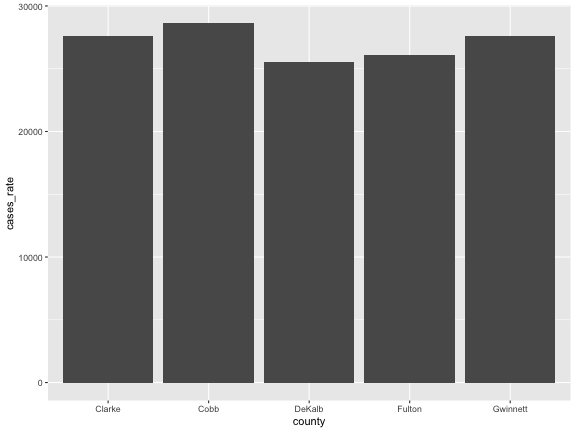
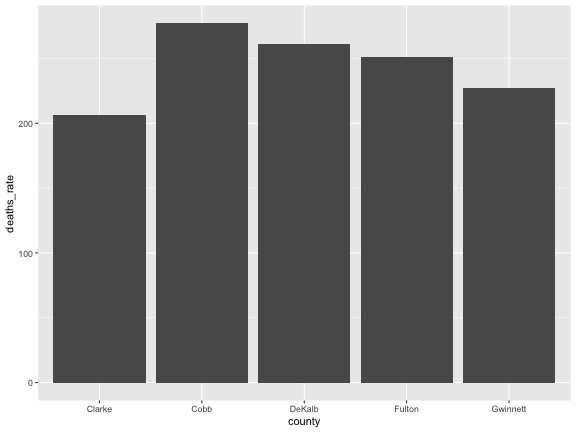
updates

diff --git a/content/teaching/slides/rlab6-combining-data_old.html b/content/teaching/slides/rlab6-combining-data_old.html
@@ -4,7 +4,7 @@
     <title>PADP 7120 Data Applications in PA</title>
     <meta charset="utf-8" />
     <meta name="author" content="Alex Combs" />
-    <script src="rlab6-combining-data_files/header-attrs-2.23/header-attrs.js"></script>
+    <script src="rlab6-combining-data_old_files/header-attrs-2.23/header-attrs.js"></script>
     <link rel="stylesheet" href="mypres.css" type="text/css" />
   </head>
   <body>
@@ -37,29 +37,35 @@ class: center, middle, inverse, title-slide
   - Left join
 
 ---
-# Set up
 
-&gt; **Create a new project named "rlab6" and start new R Markdown document. Change YAML and global options. Delete template.**
+# Setup
+
+- For this lab, we will add to the work we did for RLab5 on data visualizations.
+
+&gt; Instead of starting a new project, open your RLab5 project by clicking on the file with extension .Rproj or just open your Rmd file.
+
+&gt; **Consider changing YAML to:**
 
 
 ```r
 ---
-title: "RLab 6: Combining Data"
+*title: "RLab 5 &amp; 6: Visualizations &amp; Combining Data"
 author: "Your Name"
 output:
   html_document:
-    df_print: kable
+    df_print: paged
 ---
 ```
 
 ---
 # Setup
 
-&gt; **Load the following packages**
+&gt; **Reload the packages that should already be in your Rmd:**
 
 
 ```r
 library(tidyverse)
+library(data.table)
 ```
 
 
@@ -67,25 +73,26 @@ library(tidyverse)
 ---
 # Download &amp; Import Data
 
-&gt; **Download the `st_fin_2014.csv`, `st_fin_2015.csv`, `st_fin_2016.csv`, `covid_ga_5.csv` and `ga_county_pop.csv` files from eLC and add them to your project folder.**
+&gt; **Download the `st_fin_2014.csv`, `st_fin_2015.csv`, `st_fin_2016.csv`, and `ga_county_pop.csv` files from eLC and add them to your project folder.**
 
-&gt; **In your setup code chunk, import the data files using the following code.**
+&gt; **In your setup code chunk, import the four data files.**
 
 
 ```r
-st_fin_2014 &lt;- read_csv("st_fin_2014.csv")
-st_fin_2015 &lt;- read_csv("st_fin_2015.csv")
-st_fin_2016 &lt;- read_csv("st_fin_2016.csv")
-covid_ga_5 &lt;- read_csv("covid_ga_5.csv")
-ga_county_pop &lt;- read_csv("ga_county_pop.csv")
+st_fin_2014 &lt;- 
+st_fin_2015 &lt;- 
+st_fin_2016 &lt;- 
+ga_county_pop &lt;- 
 ```
+
+
 
 
 
 ---
 # Append
 
-- Stacking observations of two or more datasets that have common variables with exactly the same name. 
+- Stacking observations among two or more datasets with **identical** layout. 
 
 - Example: Adding multiple time periods together of the same data that is released annually.
 
@@ -205,63 +212,15 @@ class: inverse, middle, center
 # Left joining data
 
 ---
-# County COVID Data
+# Where to add code
 
-- Let's view the `covid_ga_5` data
+- Now we're ready to add data to the `covid_ga` data from the previous lab in order to make better comparisons across counties.
 
-- These come from *New York Time's* daily COVID data [here](https://github.com/nytimes/covid-19-data)
+- We need to add code chunks that add these data *before* we start making graphs
 
-- *NYT* discontinued collecting local data on March 23, 2023 and now uses weekly CDC data
+&gt; **Find the point in your Rmd where you finished preparing `covid_ga`. Run this code so `covid_ga` is in your environment** 
 
-- Our `covid_ga_5` data contain their last counts of cumulative COVID cases and deaths for 5 Georgia counties
-
----
-# County comparison
-
-&gt; **Insert a heading "Left Join"**
-
-- Suppose we want to compare cumulative cases as of 3/23/2023 across these 5 counties.
-
-&gt; **Generate a bar graph using the following code.**
-
-
-```r
-covid_ga_5 %&gt;% 
-  ggplot(aes(x = county, y = cases)) +
-  geom_col()
-```
-
-&gt; **Make another bar graph for deaths**
-
----
-# County comparison
-
-- Cases
-
-&lt;img src="rlab6-combining-data_files/figure-html/unnamed-chunk-14-1.png" style="display: block; margin: auto;" /&gt;
-
----
-# County comparison
-
-- Deaths
-
-&lt;img src="rlab6-combining-data_files/figure-html/unnamed-chunk-15-1.png" style="display: block; margin: auto;" /&gt;
-
----
-# County comparison
-
-- Why are these county comparisons misleading?
-
----
-# County comparison
-
-- We haven't adjusted for county population.
-
-- Therefore, we need to compute rates; cases and/or deaths per some standard number of people. 
-
-- But the raw data do not include county population
-
-- We need to `left_join` county population data to the COVID data
+&gt; **Add a new code chunk here or add to the existing code chunk.**
 
 ---
 # Left Joins
@@ -388,10 +347,11 @@ glimpse(gap_pop_US)
 ---
 # Left Join Example
 
-- First step is to identify the key(s) for `gapminder97_07` and `gap_pop_US`
+- First step is to identify the key(s) for `gapminder97_07` and `gap_pop_US`?
+
+--
 
 - `country` AND `year`
-
 - They are named the same across both datasets as well, so...
 
 --
@@ -420,10 +380,10 @@ glimpse(gap_pop_97_07)
 
 - These data include total county population for 2019 from the US Census
 
----
-# Left Join Practice
 
-- Which variable(s) is(are) the key for joining the two datasets?
+
+---
+# Left Join Practice: What is the key
 
 
 ```r
@@ -438,18 +398,18 @@ glimpse(ga_county_pop)
 ```
 
 ```r
-glimpse(covid_ga_5)
+glimpse(covid_ga)
 ```
 
 ```
-## Rows: 5
+## Rows: 58,400
 ## Columns: 6
-## $ date   &lt;date&gt; 2023-03-23, 2023-03-23, 2023-03-23, 2023-03-23, 2023-03-23
-## $ county &lt;chr&gt; "Clarke", "Cobb", "DeKalb", "Fulton", "Gwinnett"
-## $ state  &lt;chr&gt; "Georgia", "Georgia", "Georgia", "Georgia", "Georgia"
-## $ fips   &lt;dbl&gt; 13059, 13067, 13089, 13121, 13135
-## $ cases  &lt;dbl&gt; 35440, 217466, 193938, 277539, 258304
-## $ deaths &lt;dbl&gt; 265, 2106, 1985, 2671, 2127
+## $ date   &lt;IDate&gt; 2022-01-01, 2022-01-01, 2022-01-01, 2022-01-01, 2022-01-01, 2…
+## $ county &lt;chr&gt; "Appling", "Atkinson", "Bacon", "Baker", "Baldwin", "Banks", "B…
+## $ state  &lt;chr&gt; "Georgia", "Georgia", "Georgia", "Georgia", "Georgia", "Georgia…
+## $ fips   &lt;int&gt; 13001, 13003, 13005, 13007, 13009, 13011, 13013, 13015, 13017, …
+## $ cases  &lt;int&gt; 3607, 1627, 2720, 394, 7127, 2986, 16328, 22953, 3323, 3611, 27…
+## $ deaths &lt;int&gt; 108, 39, 64, 14, 203, 71, 206, 376, 111, 72, 673, 86, 89, 75, 7…
 ```
 
 ---
@@ -461,7 +421,7 @@ glimpse(covid_ga_5)
 
 --
 
-- For example, if `county` was stored as a factor variable in `covid_ga_5` and as a character variable in `ga_county_pop`, we could change county to factor in `ga_county_pop` like so.
+- For example, if `county` was stored as a factor variable in `covid_ga` and as a character variable in `ga_county_pop`, we could change county to factor in `ga_county_pop` like so.
 
 
 ```r
@@ -471,72 +431,37 @@ ga_county_pop$county &lt;- as.factor(ga_county_pop$county)
 ---
 # Left Join Practice
 
-- Which data set makes the most sense as our "left" dataset? 
-
-&gt; **Left join the two datasets, overwriting `covid_ga_5`.**
+&gt; **Now we are ready to join `ga_county_pop` to `covid_ga`. Give it a shot. Overwrite `covid_ga` instead of creating a new dataset.**
 
 
 
-
-```r
-covid_ga_5 &lt;- covid_ga_5 %&gt;% 
-  ___(___, ___ = '___')
-```
-
----
-# Left Join Practice
-
-&gt; **Use `glimpse` on our updated data**
+&gt; **Use `glimpse` on our updated dataset**
 
 
 ```r
-glimpse(covid_ga_5)
+glimpse(covid_ga)
 ```
 
 ```
-## Rows: 5
+## Rows: 58,400
 ## Columns: 7
-## $ date       &lt;date&gt; 2023-03-23, 2023-03-23, 2023-03-23, 2023-03-23, 2023-03-23
-## $ county     &lt;chr&gt; "Clarke", "Cobb", "DeKalb", "Fulton", "Gwinnett"
-## $ state      &lt;chr&gt; "Georgia", "Georgia", "Georgia", "Georgia", "Georgia"
-## $ fips       &lt;dbl&gt; 13059, 13067, 13089, 13121, 13135
-## $ cases      &lt;dbl&gt; 35440, 217466, 193938, 277539, 258304
-## $ deaths     &lt;dbl&gt; 265, 2106, 1985, 2671, 2127
-## $ population &lt;dbl&gt; 128331, 760141, 759297, 1063937, 936250
+## $ date       &lt;IDate&gt; 2022-01-01, 2022-01-01, 2022-01-01, 2022-01-01, 2022-01-0…
+## $ county     &lt;chr&gt; "Appling", "Atkinson", "Bacon", "Baker", "Baldwin", "Banks"…
+## $ state      &lt;chr&gt; "Georgia", "Georgia", "Georgia", "Georgia", "Georgia", "Geo…
+## $ fips       &lt;int&gt; 13001, 13003, 13005, 13007, 13009, 13011, 13013, 13015, 130…
+## $ cases      &lt;int&gt; 3607, 1627, 2720, 394, 7127, 2986, 16328, 22953, 3323, 3611…
+## $ deaths     &lt;int&gt; 108, 39, 64, 14, 203, 71, 206, 376, 111, 72, 673, 86, 89, 7…
+## $ population &lt;dbl&gt; 18386, 8165, 11164, 3038, 44890, 19234, 83240, 107738, 1670…
 ```
 
 ---
-# Adjusting for Population
+# Recap
 
-&gt; **Insert a new code chunk below the left join that added population to `covid_ga_5`. Add three new variables: `pop100K`, `cases_rate`, and `deaths_rate`.**
+- In one chunk of code, we had R merge each county's population to all of the rows for that county in our COVID data
 
+- We are now ready to compute normalized rates and visualize comparisons
 
-```r
-covid_ga_5 &lt;- covid_ga_5 %&gt;% 
-  ___(pop100K = ___,
-      cases_rate = ___, 
-      deaths_rate = ___)
-```
-
-
-
----
-# Update bar graphs
-
-&gt; **Add a new code chunk. Copy-and-paste bar graph code. Modify the code to include new variables.**
-
----
-# Updated bar graphs
-
-&lt;img src="rlab6-combining-data_files/figure-html/unnamed-chunk-32-1.png" style="display: block; margin: auto;" /&gt;
-
----
-# Updated bar graphs
-
-&lt;img src="rlab6-combining-data_files/figure-html/unnamed-chunk-33-1.png" style="display: block; margin: auto;" /&gt;
-
----
-# Upload
+- We will continue this project in the next lab
 
 &gt; **Upload your Rmd to eLC.**
 

diff --git a/content/teaching/slides/Causality.html b/content/teaching/slides/Causality.html
@@ -24,7 +24,7 @@ class: center, middle, inverse, title-slide
 ### UGA | SPIA | PADP
 ]
 .date[
-### Last updated: October 18, 2023
+### Last updated: March 11, 2024
 ]
 
 ---
@@ -50,9 +50,7 @@ class: center, middle, inverse, title-slide
 
   - The outcome that we observe in the presence of the event
 
-  - The outcome that we would have observed had the event not happened
-
-- **Counterfactual:** The unobserved outcome from an alternate reality. 
+  - **Counterfactual:** The outcome we would have observed had the event not happened
 
 ---
 # Potential outcomes
@@ -63,7 +61,9 @@ class: center, middle, inverse, title-slide
 
   - We observe the outcome for those who did not receive the treatment
 
-- Cannot observe the outcome for the treated had they not received it or for the untreated as if they had
+- Cannot observe the outcome for the treated as if they had NOT been treated 
+
+- Cannot observe the outcome for the untreated as if they HAD been treated
 
 ---
 # The challenge of counterfactual
@@ -124,7 +124,7 @@ class: center, middle, inverse, title-slide
 ---
 # Correlation between X and Y
 
-- If you run a regression and the estimate is statistically significant (we haven't covered significance yet), you have established correlation that is unlikely due to random variation
+- If you run a hypothesis test and the estimate is statistically significant (we haven't covered this yet), you have established credible non-random correlation 
 
 - But many things correlate that share no causal relationship
 
@@ -133,9 +133,7 @@ class: center, middle, inverse, title-slide
 
 - Cause must occur before its effect
 
---
-
-- Easiest to claim for discrete events with a pre and post
+- Easiest to claim for discrete events with a clear pre and post
   - Marijuana legalization on health outcomes
   - Child tax credit expansion on child poverty
 
@@ -458,7 +456,7 @@ class: inverse, center, middle
 
 - Controlling for `\(PE\)` closes 6
 
-- Currently no way to close 5; our causal hopes are dashed
+- Currently no way to close 5; omitted variable bias
 ]
 
 ---
@@ -487,7 +485,7 @@ class: inverse, center, middle
 ---
 # External validity
 
-- **External validity (generalizability):** can results be applied beyond the groups or context that were studied?
+- **External validity (generalizability):** can results be applied beyond the subjects or context included in the analysis?
 
 --
 

diff --git a/content/teaching/slides/rlab6-combining-data_old_files/header-attrs-2.23/header-attrs.js b/content/teaching/slides/rlab6-combining-data_old_files/header-attrs-2.23/header-attrs.js
@@ -1,0 +1,12 @@
+// Pandoc 2.9 adds attributes on both header and div. We remove the former (to
+// be compatible with the behavior of Pandoc < 2.8).
+document.addEventListener('DOMContentLoaded', function(e) {
+  var hs = document.querySelectorAll("div.section[class*='level'] > :first-child");
+  var i, h, a;
+  for (i = 0; i < hs.length; i++) {
+    h = hs[i];
+    if (!/^h[1-6]$/i.test(h.tagName)) continue;  // it should be a header h1-h6
+    a = h.attributes;
+    while (a.length > 0) h.removeAttribute(a[0].name);
+  }
+});
